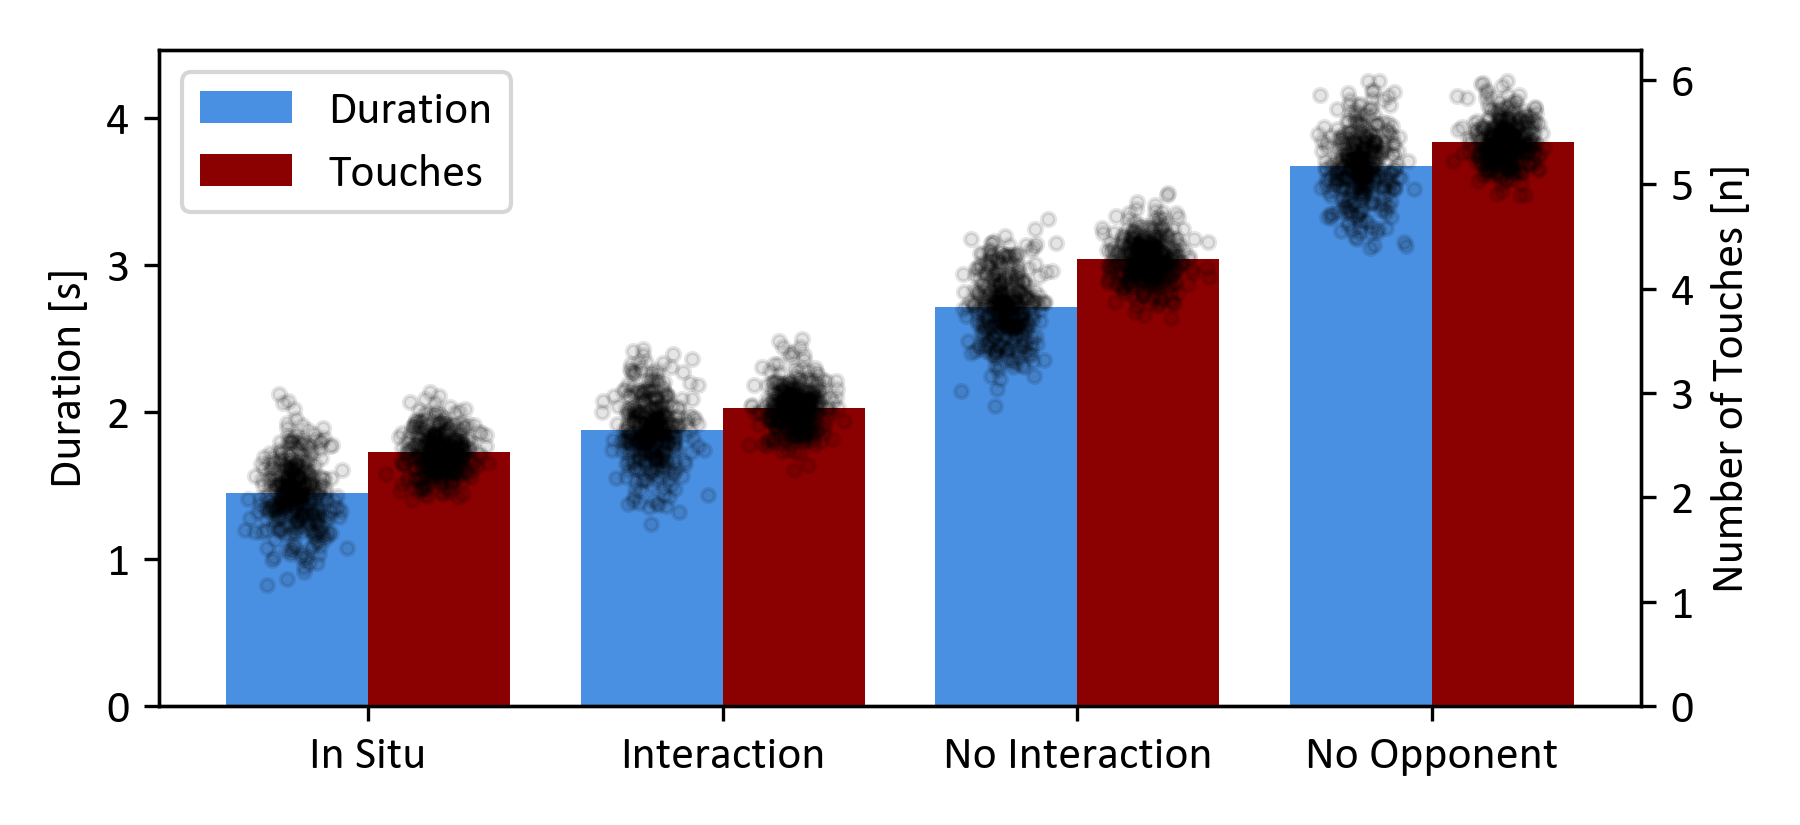
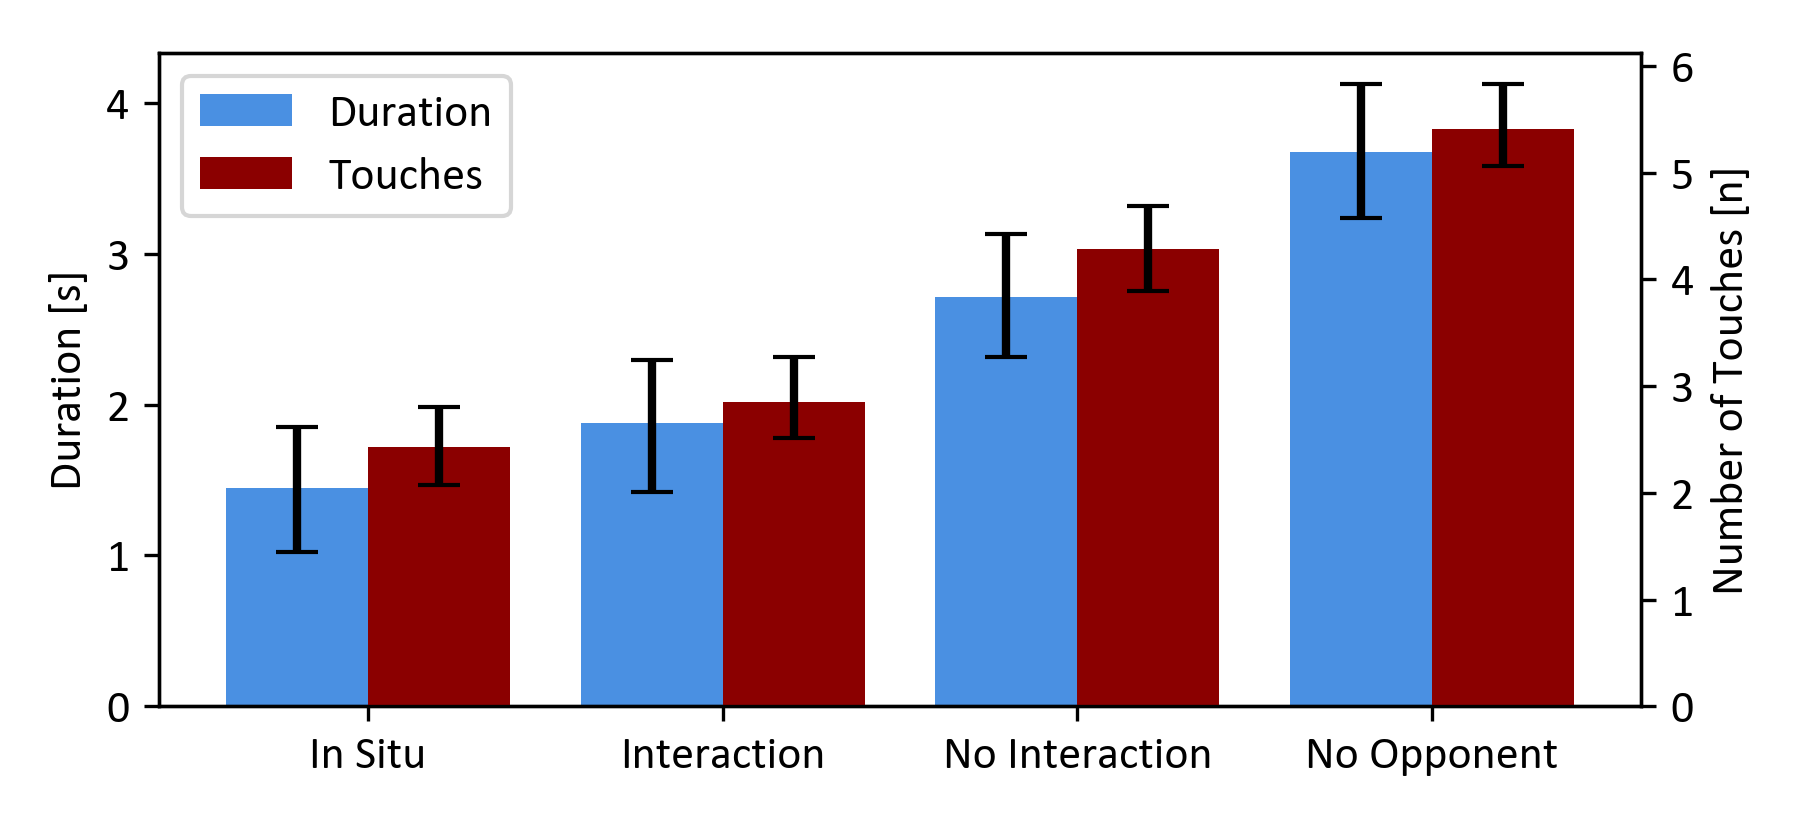
change to error bars

diff --git a/Python.Analysis/src/regressions/predictive_figure_duration_and_touches.py b/Python.Analysis/src/regressions/predictive_figure_duration_and_touches.py
@@ -21,27 +21,28 @@ def duration_and_touches_predictive_figure(duration_model_path: Path, touches_mo
     duration_means = duration_samples.mean(axis=1)
     touches_means = touches_samples.mean(axis=1)
 
+    # Calculate 95% density intervals
+    duration_lower = np.percentile(duration_samples, 2.5, axis=1)
+    duration_upper = np.percentile(duration_samples, 97.5, axis=1)
+    touches_lower = np.percentile(touches_samples, 2.5, axis=1)
+    touches_upper = np.percentile(touches_samples, 97.5, axis=1)
+
     conditions = [c.value for c in Condition]
     x_pos = np.arange(len(conditions))
 
     fig, ax1 = plt.subplots(figsize=(persistence.figure_width(ColumnFormat.DOUBLE), 2.75))
     ax2 = ax1.twinx()
 
-    ax1.bar(x_pos - 0.2, duration_means, 0.4, capsize=5, color='#4A90E2', label='Duration')
+    # Bar plots with error bars for 95% density intervals
+    ax1.bar(x_pos - 0.2, duration_means, 0.4, yerr=[duration_means - duration_lower, duration_upper - duration_means], capsize=5, color='#4A90E2', label='Duration')
     ax1.set_ylabel('Duration [s]')
 
-    ax2.bar(x_pos + 0.2, touches_means, 0.4, capsize=5, color='#8B0000', label='Touches')
+    ax2.bar(x_pos + 0.2, touches_means, 0.4, yerr=[touches_means - touches_lower, touches_upper - touches_means], capsize=5, color='#8B0000', label='Touches')
     ax2.set_ylabel('Number of Touches [n]')
 
     ax1.set_xticks(x_pos)
     formatted_labels = [re.sub(r'([a-z])([A-Z])', r'\1 \2', label) for label in conditions]
     ax1.set_xticklabels(formatted_labels, rotation=0)
-
-    for i in range(len(conditions)):
-        duration_jitter = np.random.normal(0, 0.05, size=duration_samples.shape[1])
-        touches_jitter = np.random.normal(0, 0.05, size=touches_samples.shape[1])
-        ax1.scatter(i - 0.2 + duration_jitter, duration_samples[i], alpha=0.1, color='black', s=10)
-        ax2.scatter(i + 0.2 + touches_jitter, touches_samples[i], alpha=0.1, color='black', s=10)
 
     lines1, labels1 = ax1.get_legend_handles_labels()
     lines2, labels2 = ax2.get_legend_handles_labels()
